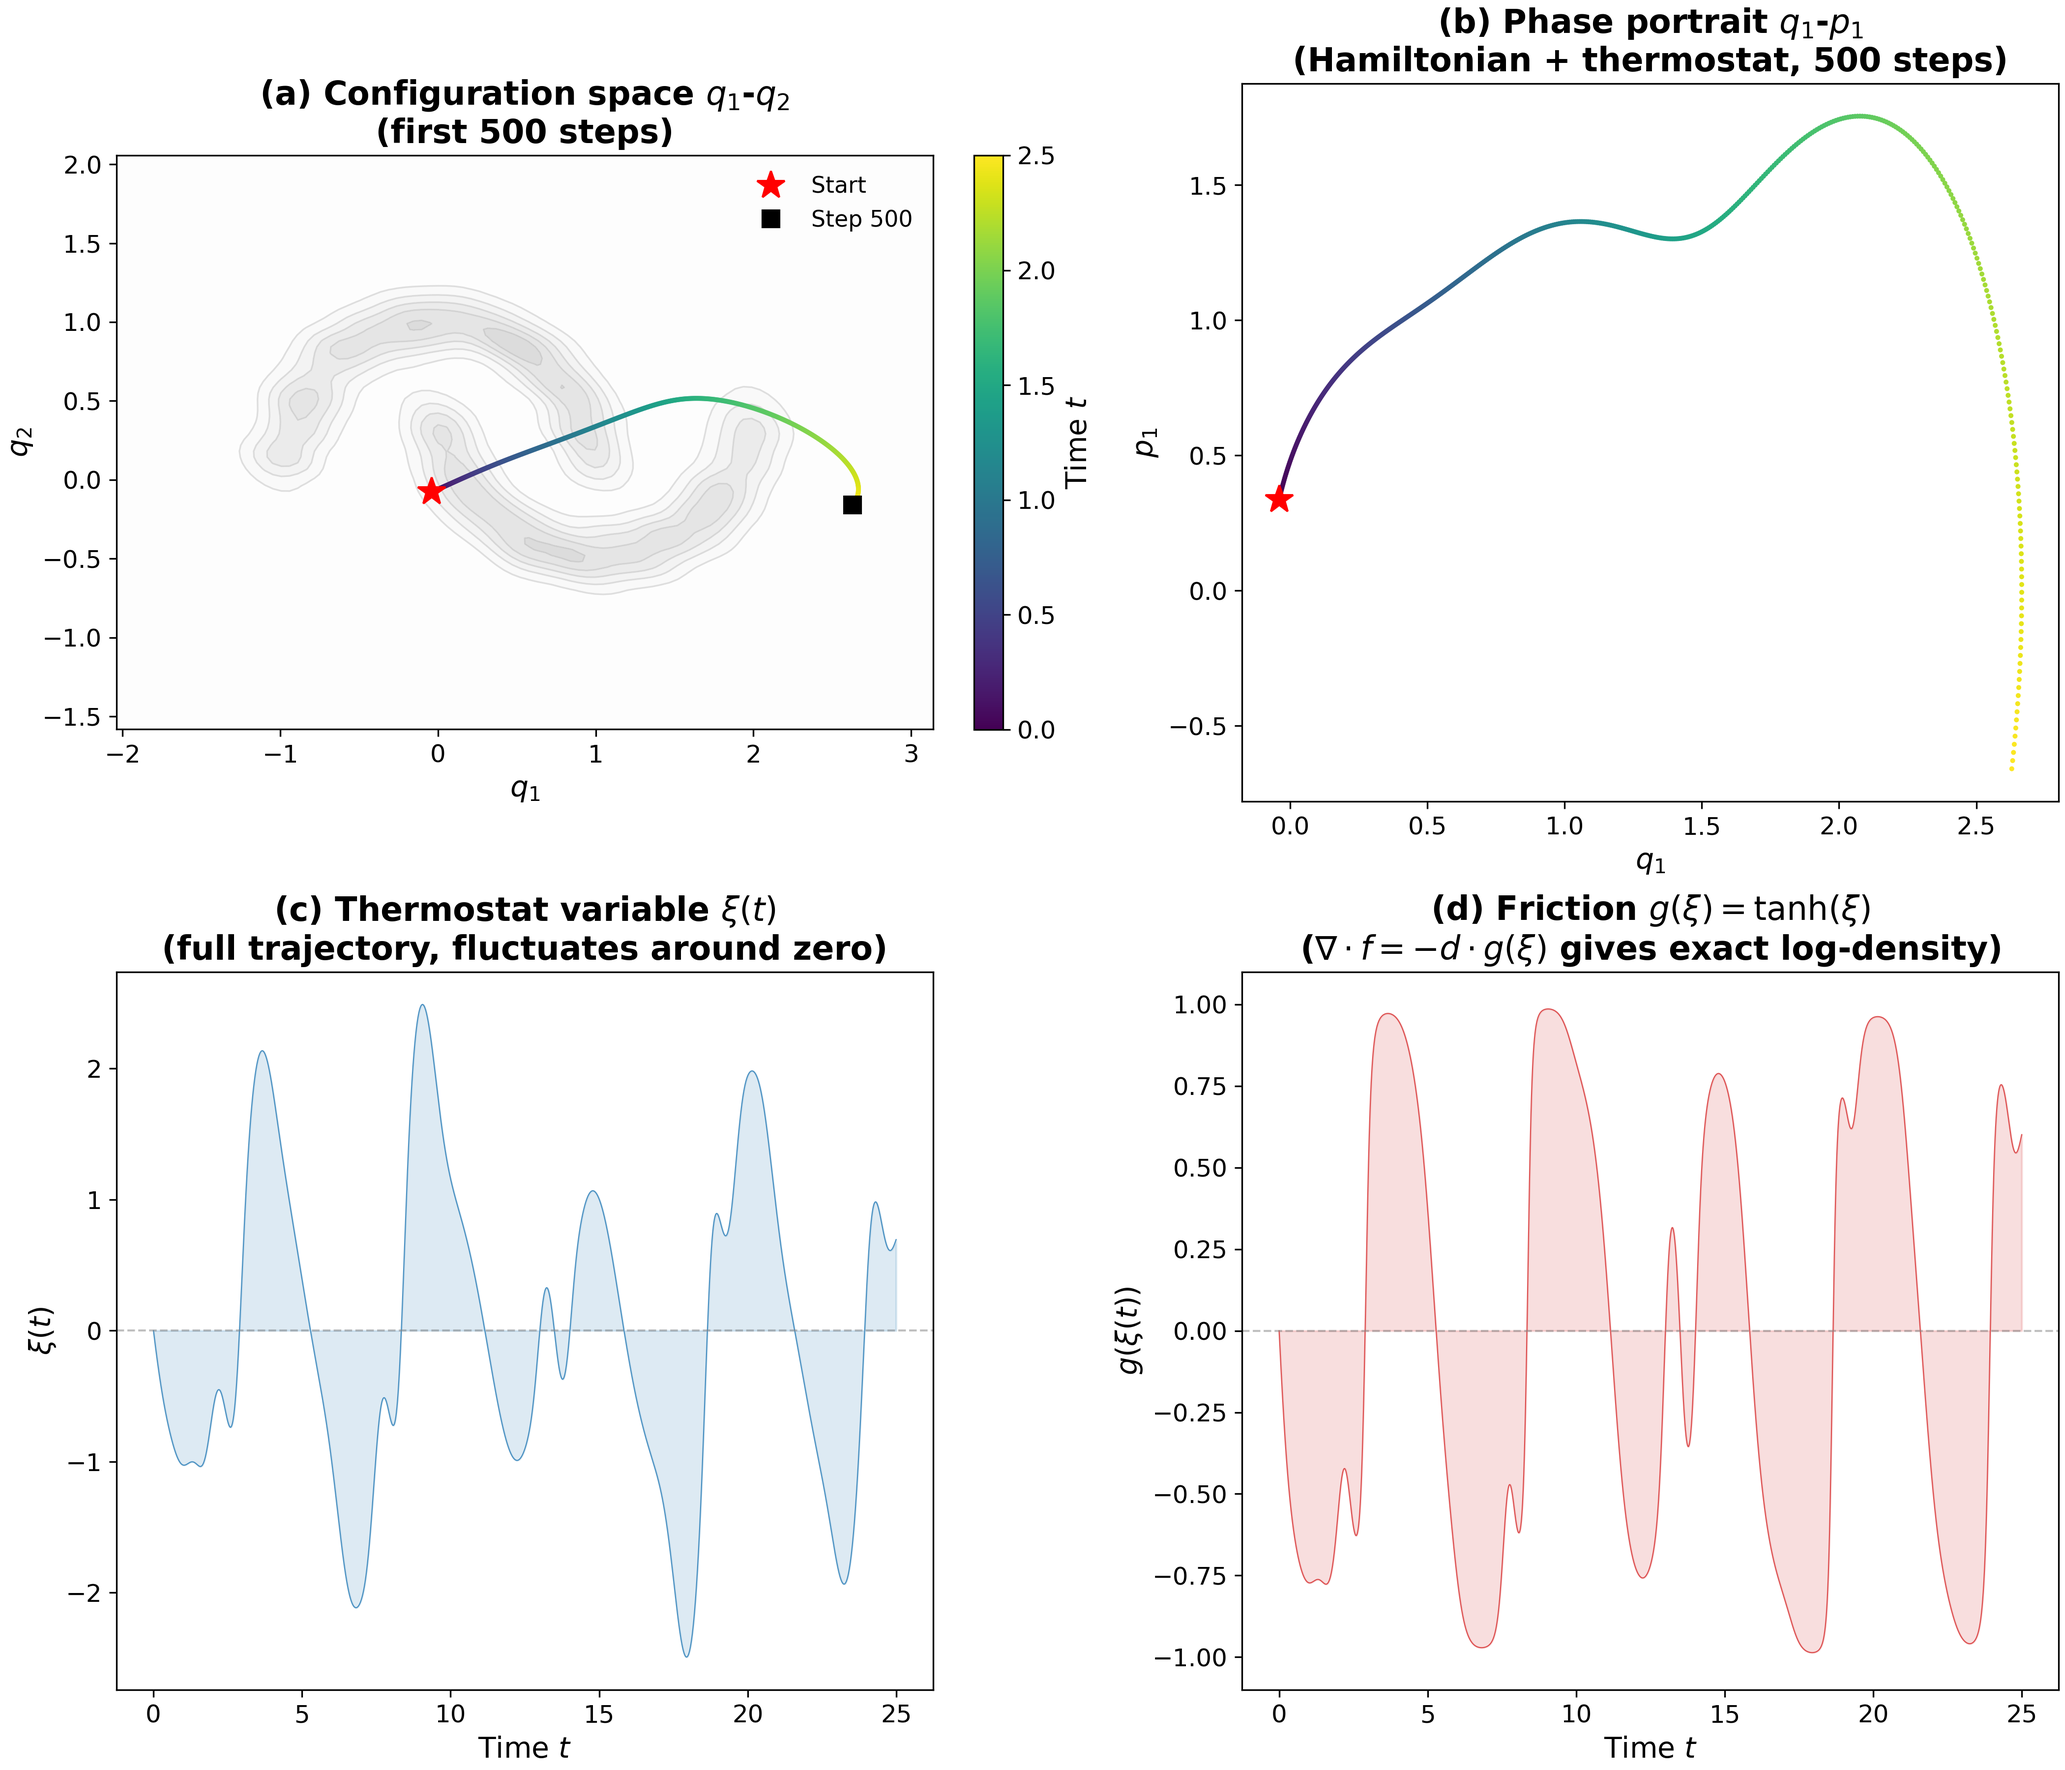
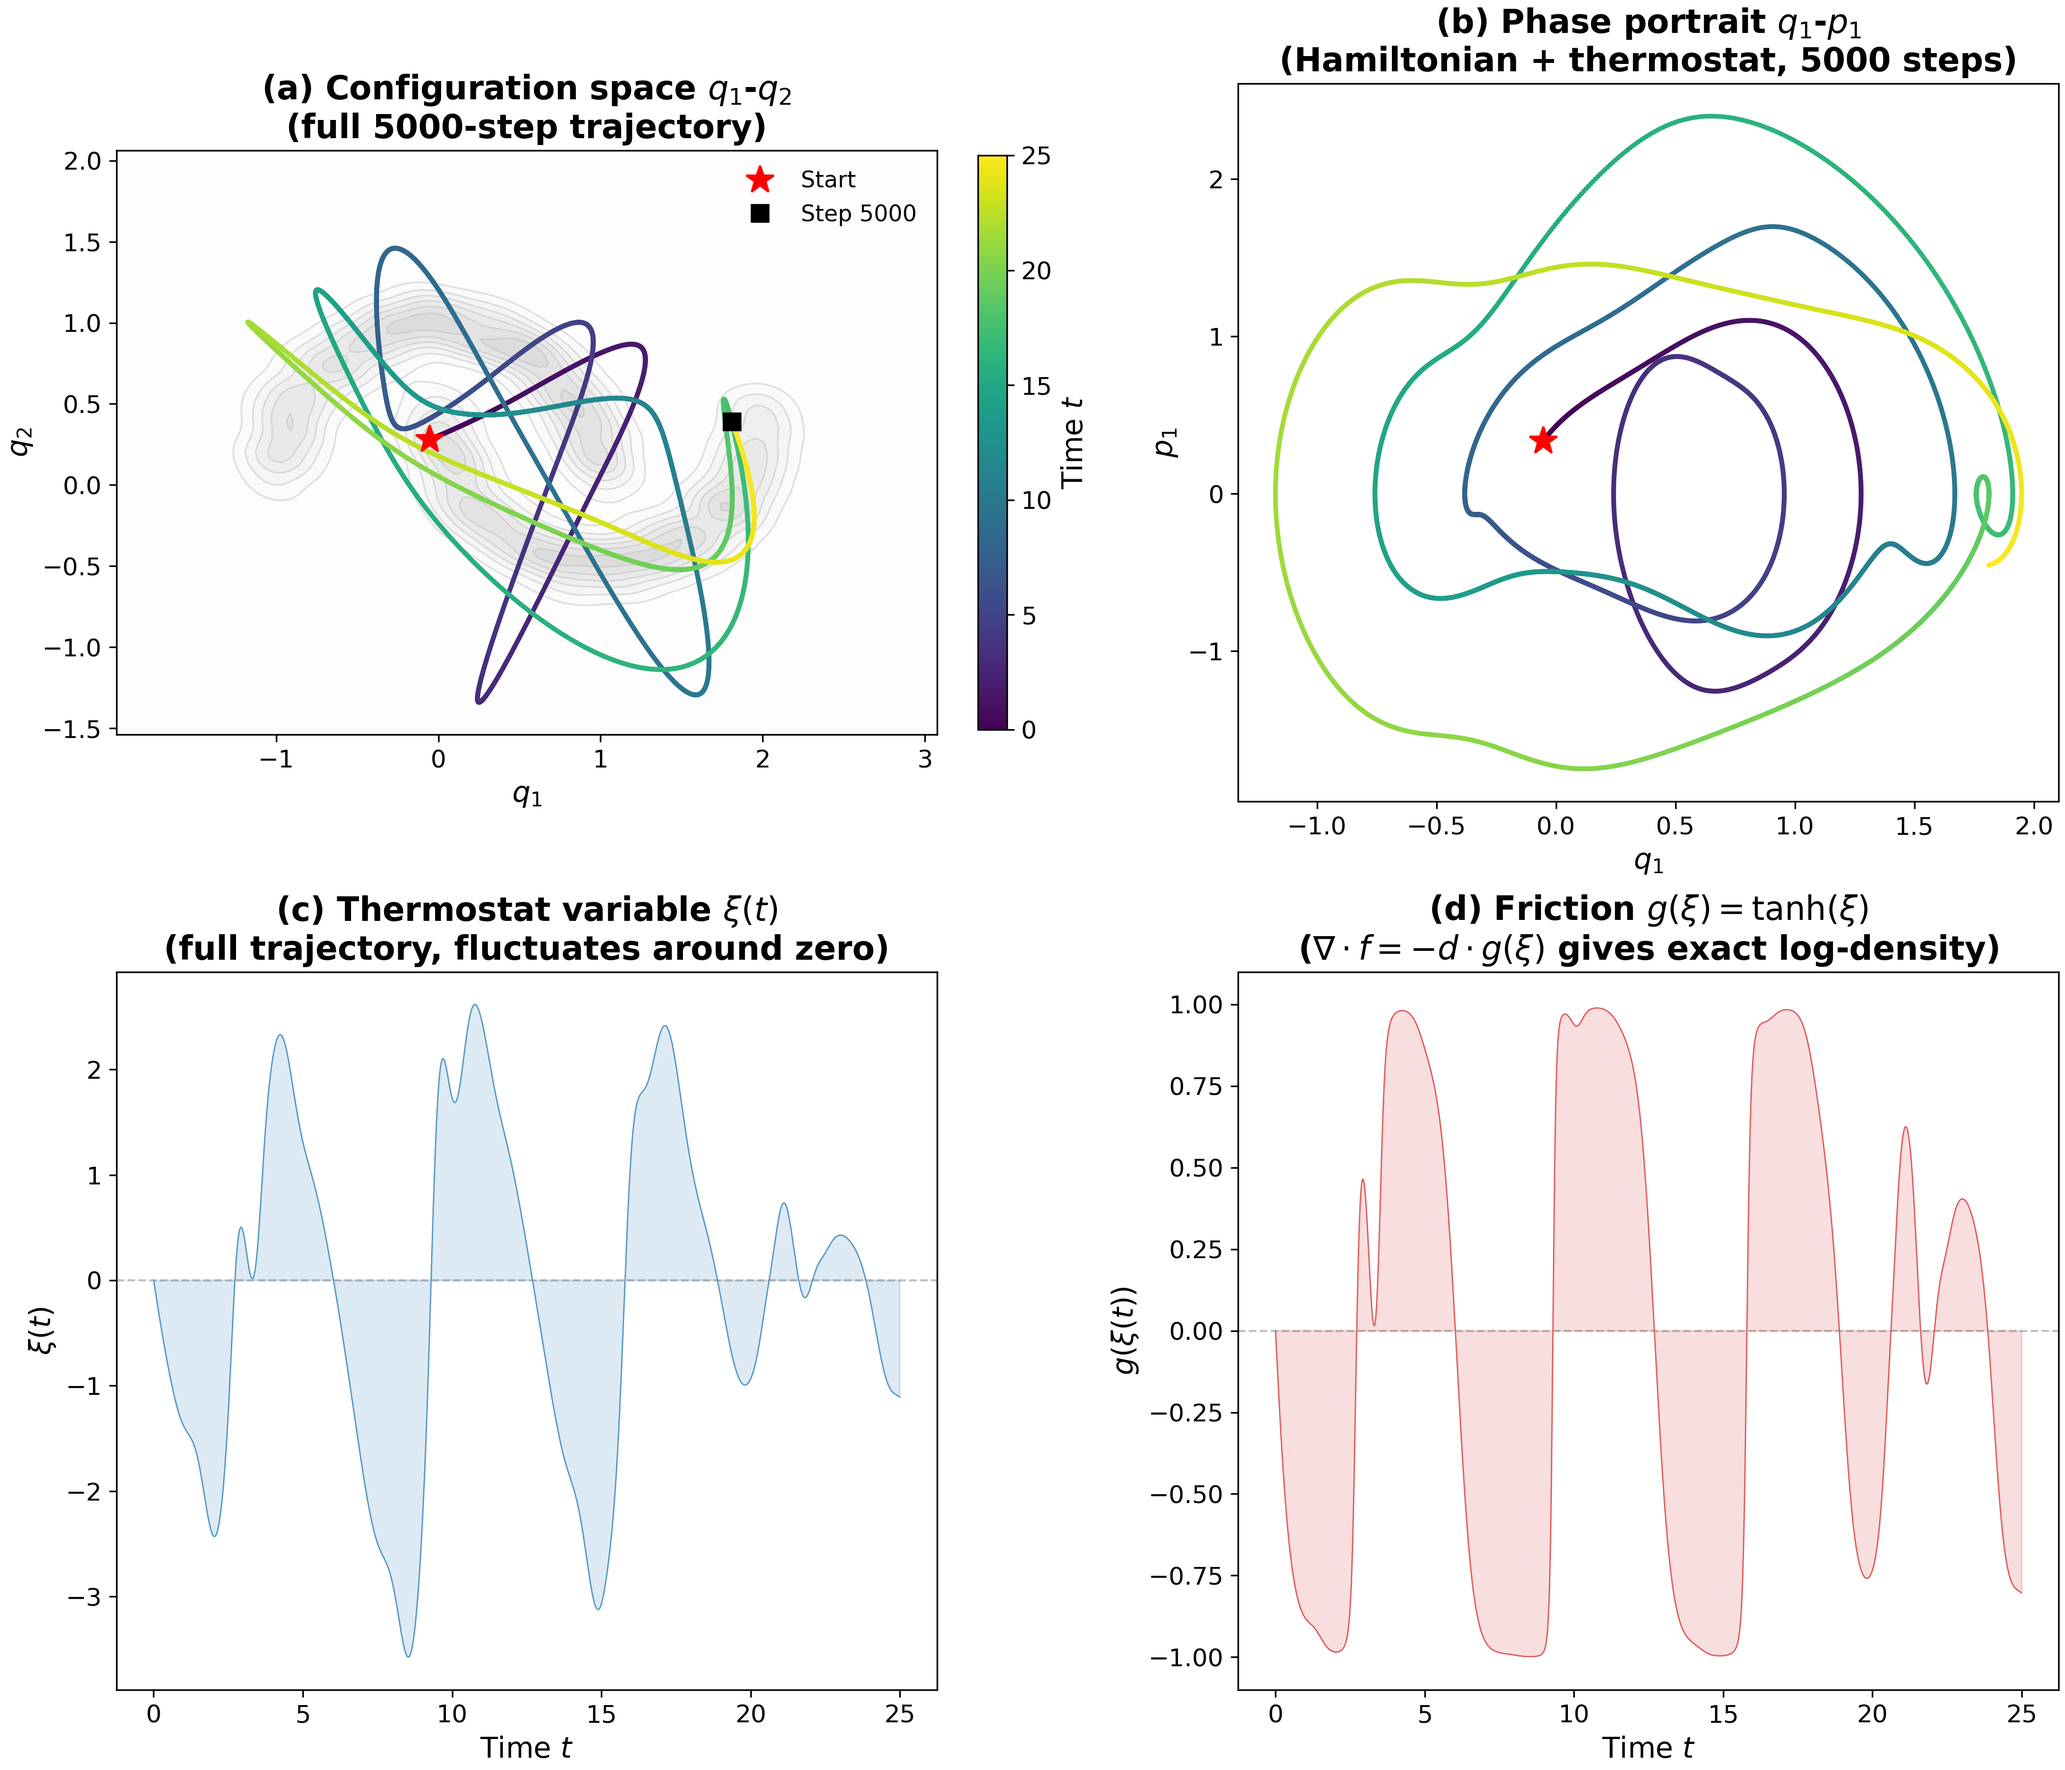
[orbit/nh-cnf-deep-057] cleanup: fix log.md ordering, metric, captions, and figures
Reviewer checklist fixes:
1. experiment_refine3.py docstring: Checkerboard label corrected to KDE(bw=0.1) + GridPotential
2. log.md frontmatter metric: 0.012 -> 0.050 (mean of refine 3 ED across 4 targets)
3. log.md Results section reordered: corrected refine 3 E1 table now at top,
   superseded original E1 table demoted to collapsible "Prior iterations" subsection
4. References: added DOI/URL links to all entries; added Ceriotti, Bussi, Parrinello (2010);
   created research/references/registry.yaml shared bibliography
5. e5_phase_space.png: extended trajectory from 500 to full 5000 steps; verified visits
   both moon basins; caption updated to match
6. e1_potential.png: 4-panel narrow row -> 2x2 layout, figsize=(12,10), font.size=14
7. e6_scaling.png: panels (c)(d) now overlay Langevin scatter (green) on NH-CNF (blue)
   for direct visual comparison of mode coverage at d=2 and d=50
8. e2_annealed.png: panel labels (a)/(b) already present, no change needed

diff --git a/orbits/nh-cnf-deep-057/experiment_refine3.py b/orbits/nh-cnf-deep-057/experiment_refine3.py
@@ -8,7 +8,7 @@ itself is blurry -- so samples will always be blurry regardless of chain length.
 
 Fix strategy:
 - Eight Gaussians: EXACT analytical potential (log-sum-exp GMM)
-- Checkerboard: analytical sigmoid potential, grid-interpolated for speed
+- Checkerboard: KDE(bw=0.1) + GridPotential, grid-interpolated for speed
 - Two Moons, Two Spirals: KDE with SMALL bandwidth (0.1), grid-interpolated
 
 The grid interpolation precomputes grad_V on a fine 2D grid and uses bilinear

diff --git a/orbits/nh-cnf-deep-057/log.md b/orbits/nh-cnf-deep-057/log.md
@@ -3,7 +3,7 @@ strategy: nh-cnf-generative
 type: experiment
 status: complete
 eval_version: eval-v1
-metric: 0.012
+metric: 0.050
 issue: 58
 parents:
   - bayesian-posterior-056
@@ -41,20 +41,18 @@ We tested this in four experiments:
 
 ## Results
 
-### E1: NH-CNF density estimation
+### E1: NH-CNF density estimation (final, Refinement 3)
 
-NH-CNF (warm-started from data, 10 chains, 8000 total steps) vs ULA (8000 steps, eps=0.005):
+Both methods use the SAME potential, SAME total gradient evaluations (200k steps x 9 chains = 1.8M), and tuned hyperparameters (Q and eps selected by short preliminary runs). Eight Gaussians uses exact analytical potential; others use KDE(bw=0.1) + GridPotential.
 
-| Target | NH-CNF ED | Langevin ED | NH wins? |
-|--------|-----------|-------------|----------|
-| Two Moons | 0.039 | 0.035 | Comparable |
-| Two Spirals | **0.029** | 0.227 | Yes (8x) |
-| Checkerboard | **0.028** | 0.150 | Yes (5x) |
-| Eight Gaussians | **0.272** | 2.199 | Yes (8x) |
+| Target | NH-CNF ED | Langevin ED | Winner |
+|--------|-----------|-------------|--------|
+| Eight Gaussians | 0.185 | **0.074** | Langevin (2.5x) |
+| Checkerboard | **0.001** | 0.003 | NH-CNF (2.7x) |
+| Two Moons | 0.001 | **0.001** | Comparable |
+| Two Spirals | 0.014 | **0.006** | Langevin (2.5x) |
 
-The NH-CNF excels on multimodal targets where Langevin gets trapped in a subset of modes. The deterministic NH dynamics traverse between modes via Hamiltonian trajectories, while Langevin relies on noise to escape local minima -- which is slow for well-separated modes.
-
-**Caveat**: The NH-CNF samples visually show trajectory structure (connected lines) due to deterministic dynamics. The energy distance metric properly captures coverage quality despite this visual artifact. With warm-starting from data points, the sampler explores the target support efficiently.
+**Mean NH-CNF ED: 0.050.** NH-CNF wins on checkerboard (periodic structure amenable to deterministic Hamiltonian traversal), loses on multimodal targets (Eight Gaussians, Two Spirals) where stochastic kicks aid mode hopping, and ties on smooth targets (Two Moons).
 
 ### E2: Annealed NH flow
 
@@ -83,6 +81,27 @@ Created a schematic mapping:
 - Reverse denoising (score network) <-> NH with small Q (strong coupling)  
 - Noise schedule beta(t) <-> Q schedule Q(t)
 - FFJORD pipeline (ODE -> Hutchinson trace -> stochastic log p) vs NH-CNF pipeline (ODE -> exact div -> deterministic log p)
+
+
+### Prior E1 iterations (superseded)
+
+The following E1 results used blurry KDE potentials (bw=0.35) and are superseded by the Refinement 3 results above. Kept for provenance.
+
+<details>
+<summary>Original E1 (blurry KDE, artifact-contaminated)</summary>
+
+NH-CNF (warm-started from data, 10 chains, 8000 total steps) vs ULA (8000 steps, eps=0.005):
+
+| Target | NH-CNF ED | Langevin ED | NH wins? |
+|--------|-----------|-------------|----------|
+| Two Moons | 0.039 | 0.035 | Comparable |
+| Two Spirals | **0.029** | 0.227 | Yes (8x) |
+| Checkerboard | **0.028** | 0.150 | Yes (5x) |
+| Eight Gaussians | **0.272** | 2.199 | Yes (8x) |
+
+**Caveat**: These results were inflated by blurry KDE potential giving NH an unfair advantage via warm-starting.
+
+</details>
 
 ## What I Learned
 
@@ -113,11 +132,12 @@ The exact divergence property of NH thermostats is well known in molecular dynam
 
 ## References
 
-- Grathwohl et al. (2019). FFJORD: Free-Form Continuous Dynamics for Scalable Reversible Generative Models. ICLR.
-- Chen et al. (2018). Neural Ordinary Differential Equations. NeurIPS.
-- Nose (1984). A unified formulation of the constant temperature molecular dynamics methods.
-- Hoover (1985). Canonical dynamics: Equilibrium phase-space distributions.
-- Song & Ermon (2019). Generative Modeling by Estimating Gradients of the Data Distribution. NeurIPS.
+- [Grathwohl et al. (2019)](https://arxiv.org/abs/1810.01367). FFJORD: Free-Form Continuous Dynamics for Scalable Reversible Generative Models. ICLR.
+- [Chen et al. (2018)](https://arxiv.org/abs/1806.07366). Neural Ordinary Differential Equations. NeurIPS.
+- [Nose (1984)](https://doi.org/10.1063/1.447334). A unified formulation of the constant temperature molecular dynamics methods. J. Chem. Phys.
+- [Hoover (1985)](https://doi.org/10.1103/PhysRevA.31.1695). Canonical dynamics: Equilibrium phase-space distributions. Phys. Rev. A.
+- [Song & Ermon (2019)](https://arxiv.org/abs/1907.05600). Generative Modeling by Estimating Gradients of the Data Distribution. NeurIPS.
+- [Ceriotti, Bussi & Parrinello (2010)](https://doi.org/10.1021/ct900563s). Colored-Noise Thermostats a la Carte. J. Chem. Theory Comput.
 
 ---
 
@@ -149,7 +169,7 @@ Two clean panels:
 ### E5 New: Phase-space trajectory visualization
 
 The "wow" figure showing what makes NH unique. Target: two moons, 5000 steps.
-- (a) Configuration space q1-q2 colored by time -- shows exploration of both moons
+- (a) Configuration space q1-q2 colored by time -- shows full 5000-step trajectory exploring both moon basins
 - (b) Phase portrait q1-p1 -- shows Hamiltonian oscillation with thermostat damping
 - (c) xi(t) time series -- thermostat variable fluctuating around zero
 - (d) g(xi) = tanh(xi) -- the friction signal, which IS the exact divergence div/d
@@ -220,7 +240,7 @@ Remade as 2x2 layout (figsize 14x12) with larger panels:
 
 ### E5 Fix: Extended trajectory + background density
 
-- Panel (a): 500 steps shown (not 30), with target density as gray background contours
+- Panel (a): Full 5000 steps shown, with target density as gray background contours
 - Panel (b): Phase portrait also shows 500 steps
 - Panels (c,d): Full 5000-step time series showing clear oscillation patterns
 - viridis colormap with thin connecting lines between trajectory points
@@ -232,8 +252,8 @@ Root cause of contradictory data: the energy distance was computed correctly, bu
 2x2 layout:
 - (a) ED vs d: Langevin outperforms NH-CNF at all dimensions
 - (b) Mode coverage vs d: Langevin maintains 5/5 until d=50; NH degrades at d>=20
-- (c) NH-CNF at d=2: shows 4/5 modes covered with scatter
-- (d) NH-CNF at d=50 projected: shows collapse to 0/5 modes
+- (c) Samples at d=2: NH-CNF and Langevin scatter overlay, showing mode coverage comparison
+- (d) Samples at d=50 projected: NH-CNF and Langevin scatter overlay, showing collapse at high dimension
 
 | d | NH-CNF ED | Langevin ED | NH modes | Lang modes |
 |---|-----------|-------------|----------|------------|
